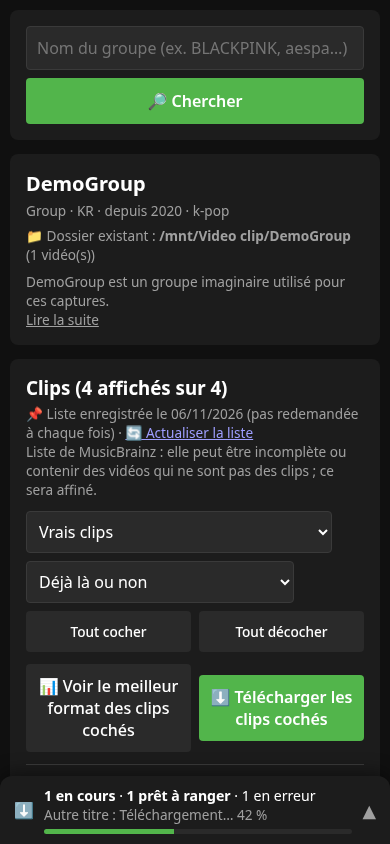
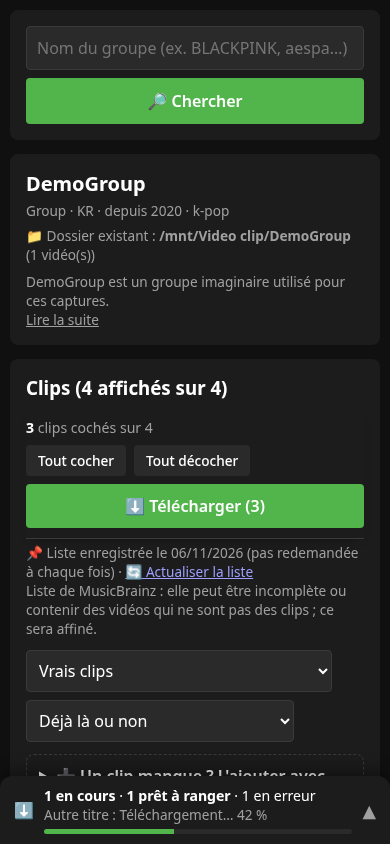
Barre d'actions collée en haut de la liste des clips, comparaison des versions seulement quand il y en a plusieurs
Claude-Session: https://claude.ai/code/session_019jd7bFnsnV7dE7F7voaq7N

Changed region(s): [[0.0615, 0.4621, 0.9538, 0.9242], [0.7077, 0.4621, 0.8923, 0.4929], [0.0923, 0.8934, 0.1231, 0.9242]]

diff --git a/templates/index.html b/templates/index.html
@@ -135,6 +135,11 @@
     .ajout .champ { display:block; margin:8px 0; } .ajout .champ input { width:100%; background:var(--field); color:var(--text); border:1px solid var(--line); border-radius:4px; padding:9px; }
     label.red { font-size:.82rem; color:var(--muted); display:inline-flex; align-items:center; gap:6px; flex-wrap:wrap; }
     label.red select { background:var(--field); color:var(--text); border:1px solid var(--line); border-radius:4px; padding:6px; max-width:100%; }
+    /* barre collée en haut de l'écran pendant qu'on fait défiler la liste des clips : plus besoin de remonter pour lancer le téléchargement */
+    .barre-clips { position:sticky; top:0; z-index:30; display:flex; flex-wrap:wrap; gap:8px; align-items:center; background:var(--card); padding:10px 0; margin:8px 0 4px; border-bottom:1px solid var(--line); box-shadow:0 6px 10px -8px rgba(0,0,0,.6); }
+    .barre-clips .resume { flex:1 1 100%; font-size:.88rem; color:var(--muted); } .barre-clips .resume b { color:var(--text); }
+    .barre-clips .btn#telecharger { flex:1; padding:11px 14px; }
+    @media (min-width:600px) { .barre-clips .resume { flex:1 1 auto; } .barre-clips .btn#telecharger { flex:none; } }
     .progress { background:var(--field); border-radius:6px; height:30px; position:relative; overflow:hidden; display:none; margin:8px 0; }
     .progress.show { display:block; }
     .progress .bar { background:var(--accent); height:100%; width:0; transition:width .4s; }
@@ -235,12 +240,16 @@ function dessiner() {
     </div>
     <div class="panel">
         <h3 style="margin:0 0 4px">Clips (${liste.length} affichés sur ${G.clips.length})</h3>
+        <div class="barre-clips" id="barreClips">
+            <span class="resume" id="nbCoches"></span>
+            <button class="btn ghost small" id="toutCocher">Tout cocher</button><button class="btn ghost small" id="toutDecocher">Tout décocher</button>
+            <button class="btn" id="telecharger">⬇ Télécharger</button>
+        </div>
         <div class="muted">${G.enregistre ? '📌 Liste enregistrée le ' + new Date(G.enregistre * 1000).toLocaleDateString('fr-FR') + ' (pas redemandée à chaque fois) · ' : ''}<a href="#" id="actualiser">🔄 Actualiser la liste</a></div>
         <div class="muted">Liste de MusicBrainz : elle peut être incomplète ou contenir des vidéos qui ne sont pas des clips ; ce sera affiné.</div>
         <div class="toolbar">
             <select id="fTypes"><option value="clip">Vrais clips</option><option value="autre">Autres vidéos (concerts, coulisses…)</option><option value="tous">Tout</option></select>
             <select id="fDeja"><option value="tous">Déjà là ou non</option><option value="manquants">Seulement ceux que je n’ai pas</option><option value="deja">Seulement ceux que j’ai</option></select>
-            <button class="btn ghost small" id="toutCocher">Tout cocher</button><button class="btn ghost small" id="toutDecocher">Tout décocher</button>
         </div>
         <details class="ajout" id="ajoutBloc"><summary>➕ Un clip manque ? L'ajouter avec son lien YouTube</summary>
             <div class="aide" style="margin:8px 0">Colle le lien de la vidéo officielle : MouFlip lit son titre, propose l'album et l'année, et l'ajoute à la liste (il y reste après chaque « Actualiser »).</div>
@@ -248,14 +257,16 @@ function dessiner() {
             <div id="ajoutForm"></div>
         </details>
         <div class="toolbar"><label class="red">📉 Taille des clips cochés : <select id="redTous"><option value="">— choisir —</option>${optionsReduction('')}</select></label></div>
-        <div class="toolbar"><button class="btn ghost" id="lireFormats">📊 Voir le meilleur format des clips cochés</button><button class="btn" id="telecharger">⬇ Télécharger les clips cochés</button></div>
+        <div class="toolbar"><button class="btn ghost" id="lireFormats">📊 Voir le meilleur format des clips cochés</button></div>
         <div class="progress" id="prog"><div class="bar" id="progBar"></div><div class="txt" id="progTxt"></div></div>
         <div id="clips">${liste.map((c, i) => ligne(c, i)).join('') || '<div class="muted" style="padding:14px">Aucun clip dans cette vue.</div>'}</div>
     </div>`;
     $('fTypes').value = dessiner.t || 'clip'; $('fDeja').value = dessiner.d || 'tous';
     $('fTypes').onchange = $('fDeja').onchange = () => { dessiner.t = $('fTypes').value; dessiner.d = $('fDeja').value; dessiner(); };
-    $('toutCocher').onclick = () => document.querySelectorAll('.clip input').forEach(x => x.checked = true);
-    $('toutDecocher').onclick = () => document.querySelectorAll('.clip input').forEach(x => x.checked = false);
+    $('toutCocher').onclick = () => { document.querySelectorAll('.clip input[type=checkbox]').forEach(x => x.checked = true); majCoches(); };
+    $('toutDecocher').onclick = () => { document.querySelectorAll('.clip input[type=checkbox]').forEach(x => x.checked = false); majCoches(); };
+    $('clips').addEventListener('change', e => { if (e.target.type === 'checkbox') majCoches(); });
+    majCoches();
     if ($('actualiser')) $('actualiser').onclick = e => { e.preventDefault(); ouvrir(G.fiche.mbid, true); };
     document.querySelectorAll('[data-retirer-ajout]').forEach(a => a.onclick = async e => { e.preventDefault(); await post('/api/ajout/retirer', {mbid: G.fiche.mbid, titre: a.dataset.retirerAjout}); ouvrir(G.fiche.mbid); });
     document.querySelectorAll('[data-red]').forEach(sel => sel.onchange = () => choisirReduction([document.querySelectorAll('.clip')[Number(sel.dataset.red)].dataset.t], sel.value));
@@ -273,6 +284,12 @@ function dessiner() {
     $('telecharger').onclick = telechargerCoches;
     document.querySelectorAll('[data-voir]').forEach(b => b.onclick = () => voir(Number(b.dataset.voir), b));
     if ($('bioPlus')) $('bioPlus').onclick = e => { e.preventDefault(); $('bio').classList.toggle('ouverte'); };
+}
+function majCoches() {                                                  // « 3 clips cochés » + bouton Télécharger (n), toujours visibles pendant le défilement
+    const n = document.querySelectorAll('.clip input[type=checkbox]:checked').length, total = document.querySelectorAll('.clip').length;
+    $('nbCoches').innerHTML = `<b>${n}</b> clip${n > 1 ? 's' : ''} coché${n > 1 ? 's' : ''} sur ${total}`;
+    $('telecharger').textContent = n ? `⬇ Télécharger (${n})` : '⬇ Télécharger';
+    $('telecharger').disabled = !n;
 }
 function ligne(c, i) {
     return `<div class="clip" data-t="${esc(c.titre)}"><input type="checkbox" ${c.deja ? '' : 'checked'} aria-label="Choisir ce clip">
@@ -337,7 +354,7 @@ async function lireVersions(i, titre) {
         if (!VER[x.id]) { majVersions(i, titre); VER[x.id] = await post('/api/apercu/version', {video_id: x.id}); }
         majVersions(i, titre);
     }
-    const bv = document.querySelector('#voir' + i + ' [data-versions]'); if (bv) bv.textContent = '📊 Formats lus';
+    const bv = document.querySelector('#voir' + i + ' [data-versions]'); if (bv) bv.textContent = '📊 Comparaison faite';
 }
 const dur = s => s ? Math.floor(s / 60) + ':' + String(s % 60).padStart(2, '0') : '';
 async function voir(i, bouton) {
@@ -360,14 +377,15 @@ function montrer(i, titre, id) {
         <div class="muted" style="margin:6px 0">${esc(cur.channel || '')} · « ${esc(cur.title)} » ${cur.duration ? '· ' + dur(cur.duration) : ''} · <a href="${esc(cur.url)}" target="_blank" rel="noopener">Ouvrir sur YouTube</a></div>
         <div class="muted" style="margin-top:6px">${c.length > 1 ? 'Versions possibles' : 'Version trouvée'} :</div>
         <div class="alt">${c.map(x => `<button data-id="${esc(x.id)}" class="${x.id === cur.id ? 'cur' : ''}">${esc(x.channel || '')} · ${esc(x.title)} ${x.duration ? '(' + dur(x.duration) + ')' : ''}${VER[x.id] ? '<br><span class="muted">' + texteVersion(x.id) + '</span>' : ''}</button>`).join('')}</div>
-        <button class="btn small ghost" data-versions="1">📊 Format et taille de chaque version</button>
-        <button class="btn small ghost" data-qualites="1">📋 Toutes les qualités de cette vidéo</button>
+        ${c.length > 1 ? `<div class="aide" style="margin-top:4px">Ces ${c.length} vidéos sont différentes (autres chaînes ou autres mises en ligne). Compare leur qualité et leur taille pour choisir la meilleure.</div>
+        <button class="btn small ghost" data-versions="1">📊 Comparer ces ${c.length} vidéos (qualité et taille)</button>` : ''}
+        <button class="btn small ghost" data-qualites="1">📋 Choisir la qualité de cette vidéo (1080p, 1440p, 4K…)</button>
         <div id="qual${i}"></div>
         <button class="btn small" data-choisir="1">${V[titre] === cur.id ? '✅ Vidéo choisie' : '✅ C’est cette vidéo'}</button>`;
     zone.querySelector('.lecteur').onclick = e => { e.currentTarget.innerHTML = `<iframe src="https://www.youtube-nocookie.com/embed/${encodeURIComponent(cur.id)}?autoplay=1&rel=0" allow="autoplay; encrypted-media; fullscreen" allowfullscreen referrerpolicy="strict-origin-when-cross-origin"></iframe>`; e.currentTarget.onclick = null; };
     zone.querySelectorAll('.alt button').forEach(b => b.onclick = () => montrer(i, titre, b.dataset.id));
     const bq = zone.querySelector('[data-qualites]'); if (bq) bq.onclick = () => qualites(i, titre, cur.id);
-    const bv = zone.querySelector('[data-versions]'); if (bv) bv.onclick = () => { bv.disabled = true; bv.textContent = 'Lecture des formats…'; lireVersions(i, titre); };
+    const bv = zone.querySelector('[data-versions]'); if (bv) bv.onclick = () => { bv.disabled = true; bv.textContent = 'Comparaison en cours…'; lireVersions(i, titre); };
     zone.querySelector('[data-choisir]').onclick = () => { V[titre] = cur.id; post('/api/choix', {mbid: G.fiche.mbid, titre, video_id: cur.id}); montrer(i, titre, cur.id); const p = document.querySelectorAll('.clip')[i].querySelector('.voir .btn'); if (p && !p.nextElementSibling.classList.contains('pill')) p.insertAdjacentHTML('afterend', ' <span class="pill ok">vidéo choisie</span>'); };
 }
 async function ajoutLire() {

diff --git a/CHANGELOG.md b/CHANGELOG.md
@@ -12,6 +12,8 @@ Première version de MouFlip (clips vidéo K-pop pour Emby).
 - 📁 **Rangement sur confirmation**, clip par clip : copie vérifiée, `.nfo` au format de tes clips (`<musicvideo>`, `artist.nfo`), poster, images du groupe ; **jamais de remplacement** d'un fichier existant, sauf une image que tu choisis de remplacer (l'ancienne est sauvegardée). Emby est prévenu.
 - ⚙ **Réglages** : Emby, dossier des clips, volume, clés fanart.tv / TheAudioDB / IMVDb, cookies YouTube (jamais renvoyés ni écrits dans le Journal). 🩺 Journal intégré. yt-dlp se met à jour tout seul chaque jour.
 - 📉 **Réduire la taille des clips** (⚙ Réglages, désactivé par défaut) : l'image est réencodée en VP9 (le codec des clips actuels) à qualité constante, le son est recopié ; trois niveaux (très peu de perte ≈ 60 % de la taille, équilibré ≈ 50 %, plus petit ≈ 35 %). Mesuré sur un clip 4K (3 passages, SSIM image par image) : le niveau « équilibré » donne la même taille et la même qualité que l'AV1 de YouTube, sans AV1. Environ 10 minutes par clip ; ni les clips AV1 ni un gain inférieur à 10 % ne sont réencodés.
+- 🔝 **Barre d'actions collée en haut** pendant qu'on fait défiler la liste des clips : « N clips cochés sur M », Tout cocher / Tout décocher et « ⬇ Télécharger (N) » restent visibles, plus besoin de remonter pour lancer le téléchargement.
+- 👁 **Comparer les versions** : le bouton n'apparaît que s'il y a plusieurs vidéos possibles pour le clip, avec une phrase qui dit à quoi il sert ; « Choisir la qualité de cette vidéo (1080p, 1440p, 4K…) » est renommé pour ne plus être confondu avec lui.
 - 📉 **Choix par clip** de la réduction de taille : sous chaque clip, « Taille » = selon le réglage / ne pas réduire / très peu de perte / équilibré / plus petit ; un sélecteur de la barre d'outils l'applique à tous les clips cochés. Un clip peut être réduit alors que le réglage général est coupé, ou ne pas l'être alors qu'il est activé. Le H.265 a été mesuré face au VP9 (medium, slow, 10 bits) : à taille égale il perd davantage, le VP9 est donc gardé.
 - 🔎 **Clips trouvés aussi sur YouTube** : pour les groupes que MusicBrainz connaît mal (titres-phares d'EP sans clip répertorié, ex. « MANIAC » de VIVIZ), MouFlip cherche les clips officiels sur YouTube et ne garde que ceux dont le titre est un morceau d'un album du groupe (recoupement avec les pistes) ; lives, émissions, chorégraphies et fans restent écartés. Les listes enregistrées par une version plus ancienne sont refaites toutes seules.
 - ➕ **Ajouter un clip à la main** : colle le lien YouTube, MouFlip lit le titre, propose l'album (l'EP sorti le jour du clip) et l'année ; l'ajout reste après chaque « Actualiser » et la vidéo collée est celle qui sera téléchargée.
